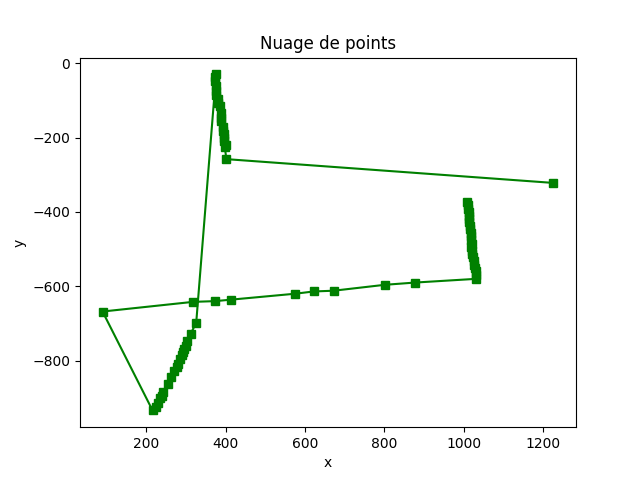
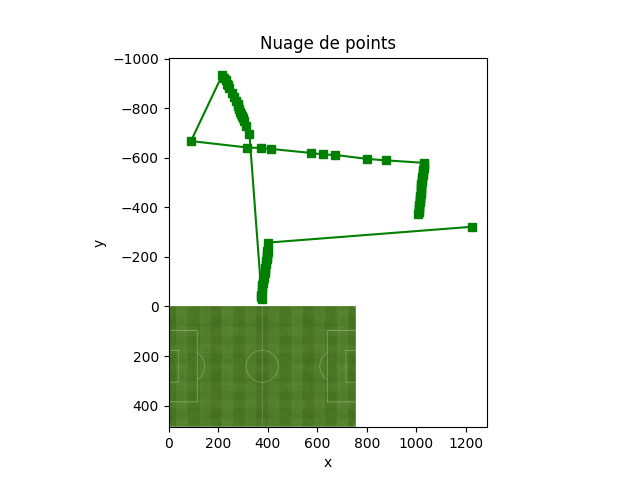
add features

diff --git a/back/graph.py b/back/graph.py
@@ -1,6 +1,8 @@
 #!/usr/bin/env python3
 
 from matplotlib import pyplot as plt 
+from matplotlib.patches import Circle
+import matplotlib.cm as cm
 
 f = open("data.txt", "r")
 # data = f.read()
@@ -8,6 +10,13 @@ x = []
 y = []
 j = 0
 # print(f.read())
+img = plt.imread('images/stade.jpg')
+
+fig, ax = plt.subplots(1)
+ax.imshow(img)
+ax.axis('off')
+
+i = 0
 for line in f.readlines():
     if j == 0:
         x += [int(line)]
@@ -15,14 +24,33 @@ for line in f.readlines():
     else:
         j=0
         y+= [int(line)]
+        print("x :", x[-1], "y :", -y[-1])
+        # circ = Circle((x[-1]/1920*750, -y[-1]/1080*584), 15, color="#FFA50012")
+        # ax.add_patch(circ)
+        # circ = Circle((x[-1]/1920*750, -y[-1]/1080*584), 7, color="#FFA50032")
+        # ax.add_patch(circ)
+        # circ = Circle((x[-1]/1920*750, -y[-1]/1080*584), 3, color="#FFA50064")
+        # ax.add_patch(circ)
+        circ = Circle((x[-1]/1920*750, -y[-1]/1080*584), 4, color=cm.hsv(i/200))
+        ax.add_patch(circ)
+        # if len(y) >=2:
+        #     plt.plot([x[-2]/1920*750, x[-1]/1920*750], [-y[-2]/1080*584, -y[-1]/1080*584], cm.hsv(i/200))
+    i+=1
+    if i == 200:
+        i = 0
     # print(line)
 
-plt.plot(x,y,"-gs")
 
-print("X : ", x, "\nY : ", y)
+# plt.imshow(img)
+# ax.axis("off")
+plt.show()
 
-plt.title("Nuage de points")
-plt.xlabel("x")
-plt.ylabel("y")
-plt.savefig('points.png')
+# plt.plot(x,y,"-gs")
+
+# print("X : ", x, "\nY : ", y)
+
+# plt.title("Nuage de points")
+# plt.xlabel("x")
+# plt.ylabel("y")
+# plt.savefig('points.png')
 plt.show()

diff --git a/back/possession.py b/back/possession.py
@@ -1,0 +1,10 @@
+#!/usr/bin/env python3
+
+import matplotlib.pylab as plt
+import numpy as np
+# npX = np.asarray(X)
+# npY = np.asarray(Y)
+img = plt.imread('images/stade.jpg')
+plt.imshow(img)
+# // TO-DO
+plt.show()
